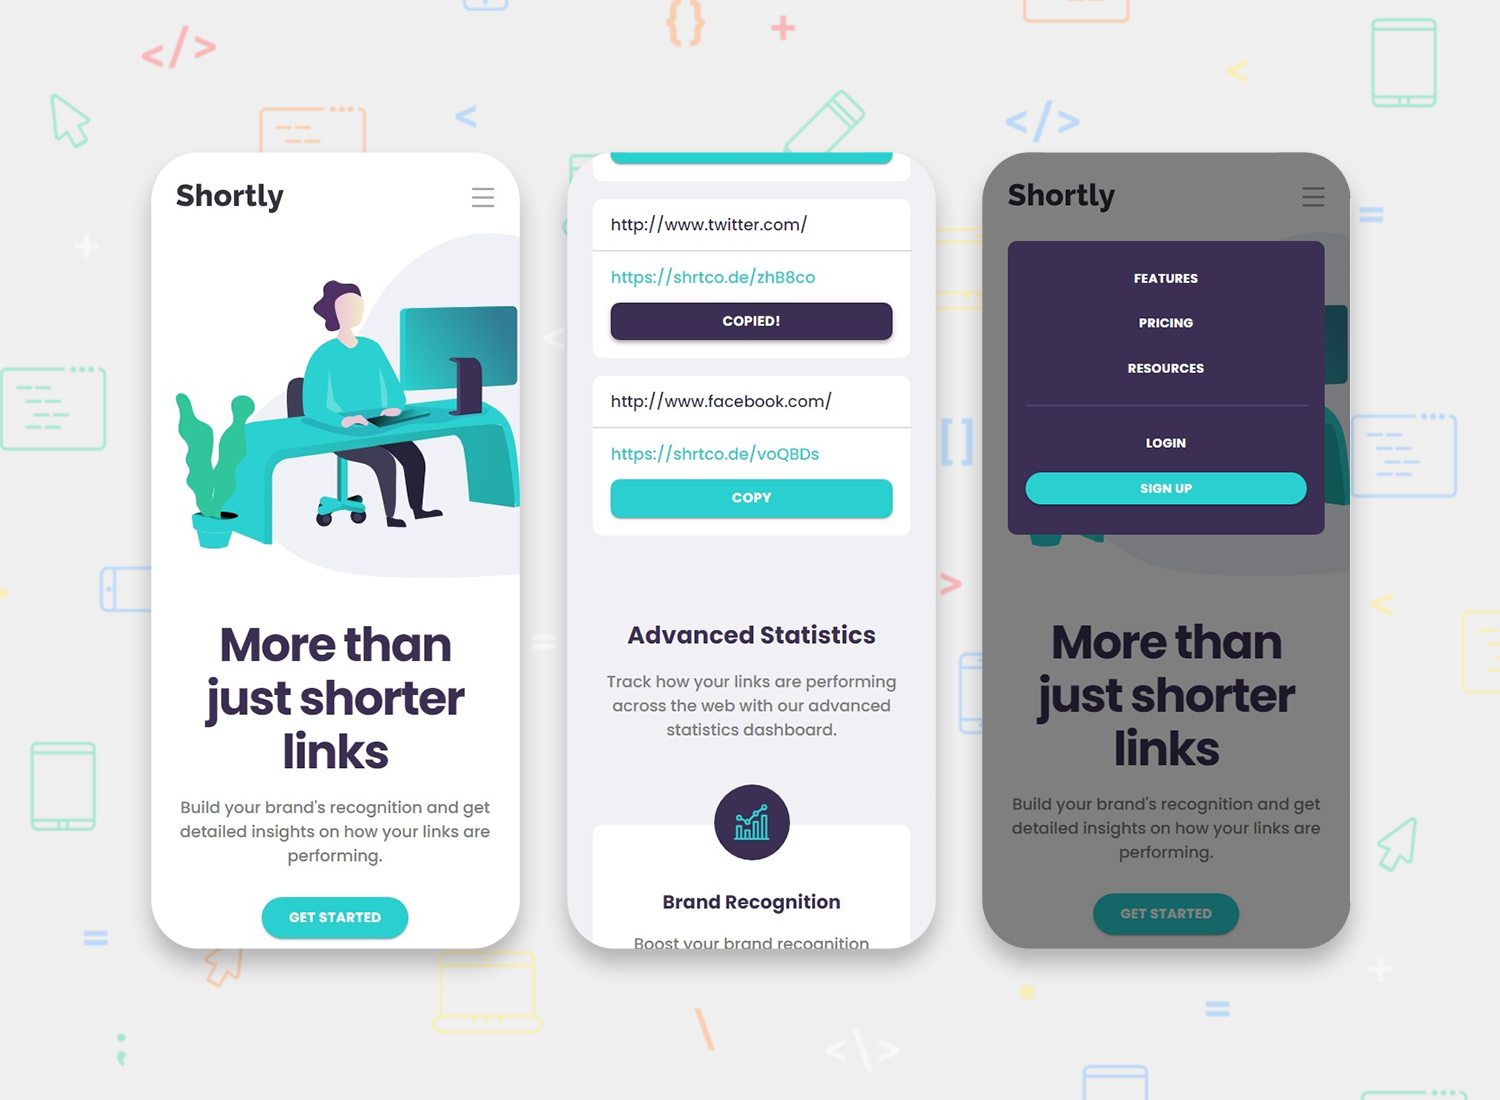
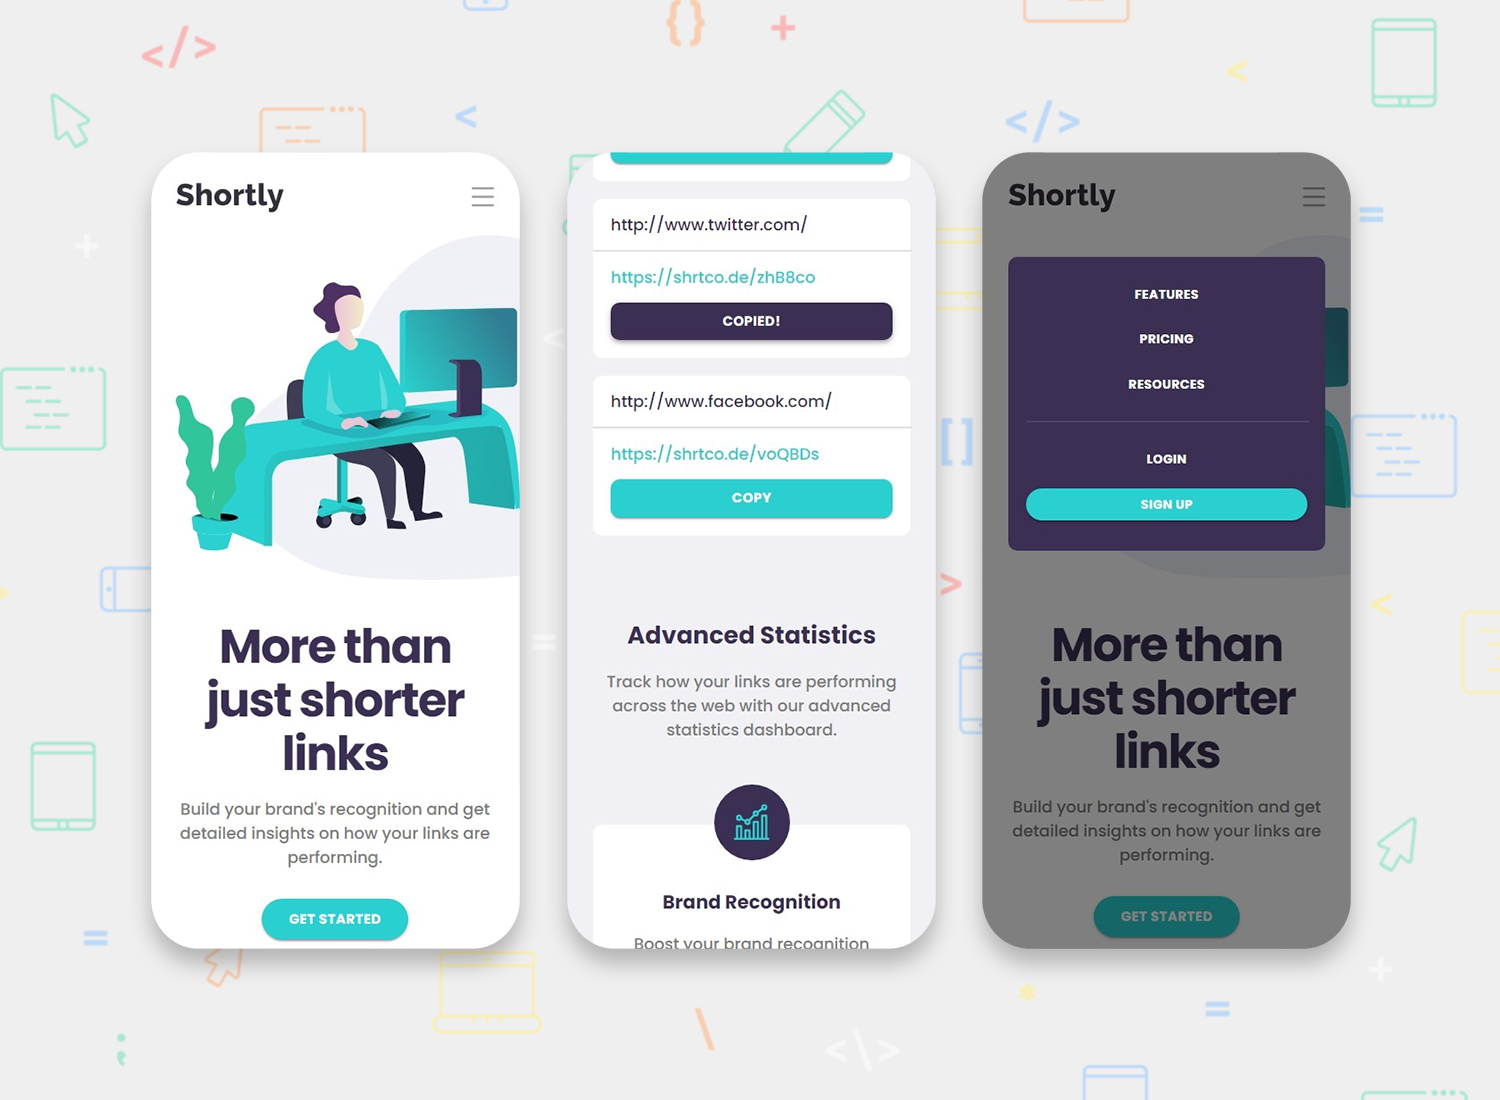
minor changes

diff --git a/fem-shortly/src/App.css b/fem-shortly/src/App.css
@@ -52,7 +52,7 @@ body {
 }
 
 
-/* Navbar */
+/* NAVBAR */
 .NavBar .MuiButtonBase-root {
     font-size: 13px;
     color: gray;
@@ -66,12 +66,8 @@ body {
     font-weight: unset !important;
 }
 
-.ModalNavBar {
-    animation: animatePopDown 0.3s ease-out;
-}
 
-
-/* Home */
+/* HOME */
 .ShortenLink {
     background-image: linear-gradient(white 50%, #f0f0f5 50%);
 }
@@ -89,7 +85,7 @@ body {
 }
 
 
-/* Footer */
+/* FOOTER */
 .BoostLink {
     background-image: url("img/bg-boost-desktop.svg");
 }
@@ -109,24 +105,25 @@ body {
 }
 
 
-/* ANIMATION */
-@keyframes animatePopDown {
-    from {transform: translateY(-100%); opacity: 50} 
-    to {transform: translateY(0); opacity: 100}
-}
-
-
 /* RESPONSIVE */
 @media (max-width: 830px) {
 
-    /* NavBar */
+    /* NAVBAR */
     .MuiButtonBase-root {
         color: white !important;
         font-weight: 700 !important;
     }
 
+    .ModalNavBar {
+        animation: animatePopDown 0.3s ease-out;
+    }
 
-    /* Home */
+
+    /* HOME */
+    .PageContent {
+        padding-top: 106px;
+    }
+
     .BannerImg {
         transform: scale(0.8);
         overflow: visible;
@@ -140,4 +137,11 @@ body {
         background-repeat: no-repeat;
         background-position: 100% 0;
     }
+}
+
+
+/* ANIMATION */
+@keyframes animatePopDown {
+    from {transform: translateY(-100%); opacity: 50} 
+    to {transform: translateY(0); opacity: 100}
 }

diff --git a/fem-shortly/src/components/Navbar.js b/fem-shortly/src/components/Navbar.js
@@ -31,7 +31,7 @@ export default function Navbar() {
     } else {
         return (
             <>
-                <Box className="NavBar" sx={{display:'flex', justifyContent:'space-between', margin:'35px 7%'}}>
+                <Box className="NavBar" sx={{display:'flex', justifyContent:'space-between', padding:'35px 7% 25px', position:'fixed', width:'86%', backgroundColor:'white', zIndex:'3'}}>
                     <Box>
                         <a href='/' style={{display:'flex', alignItems:'center'}}><Logo /></a>
                     </Box>
@@ -41,7 +41,7 @@ export default function Navbar() {
                 </Box>
 
                 <Modal open={openModal} onClose={closeModalNavBar}>
-                    <Box className='ModalNavBar' sx={{display:'flex', flexDirection:'column', justifyContent:'space-evenly', margin:'100px 7%', padding:'10px 20px 20px', backgroundColor:'#3b3054', borderRadius:'10px', height:'300px'}}>
+                    <Box className='ModalNavBar' sx={{display:'flex', flexDirection:'column', justifyContent:'space-evenly', margin:'118px 7% 25px', padding:'10px 20px 20px', backgroundColor:'#3b3054', borderRadius:'10px', height:'300px'}}>
                         <Button variant="text">Features</Button>
                         <Button variant="text" sx={{margin:'0 15px'}}>Pricing</Button>
                         <Button variant="text">Resources</Button>

diff --git a/fem-easybank/src/App.css b/fem-easybank/src/App.css
@@ -125,10 +125,14 @@ h2 {
 
 /* RESPONSIVE */
 @media (max-width: 1100px) {
+
+    /* NAVBAR */
     .Navbar {
         width: 50% !important;
     }
     
+
+    /* HOME */
     .BannerImg {
         width: 120%;
         bottom: 0;
@@ -141,6 +145,7 @@ h2 {
 }
 
 @media (max-width: 750px) {
+
     body {
         overscroll-behavior: none;
     }
@@ -151,12 +156,20 @@ h2 {
         font-size: 16px !important;
     }
 
+
+    /* NAVBAR */
     .MuiBackdrop-root, .MuiModal-root {
         margin-top: 70px;
         background-color: transparent !important;
         background: linear-gradient(to top, rgba(255,255,255,0) 0%, rgba(50,55,80,0.8) 100%);
     }
 
+    .ModalNavBar {
+        animation: animatePopDown 0.3s ease-out;
+    }
+
+
+    /* HOME */
     .BannerTop {
         background-image: url(./img/bg-intro-mobile.svg);
         background-repeat: no-repeat;
@@ -174,4 +187,11 @@ h2 {
     .WhyChooseLogo {
         margin-bottom: 10px;
     }
+}
+
+
+/* ANIMATION */
+@keyframes animatePopDown {
+    from {transform: translateY(-100%); opacity: 50} 
+    to {transform: translateY(0); opacity: 100}
 }
